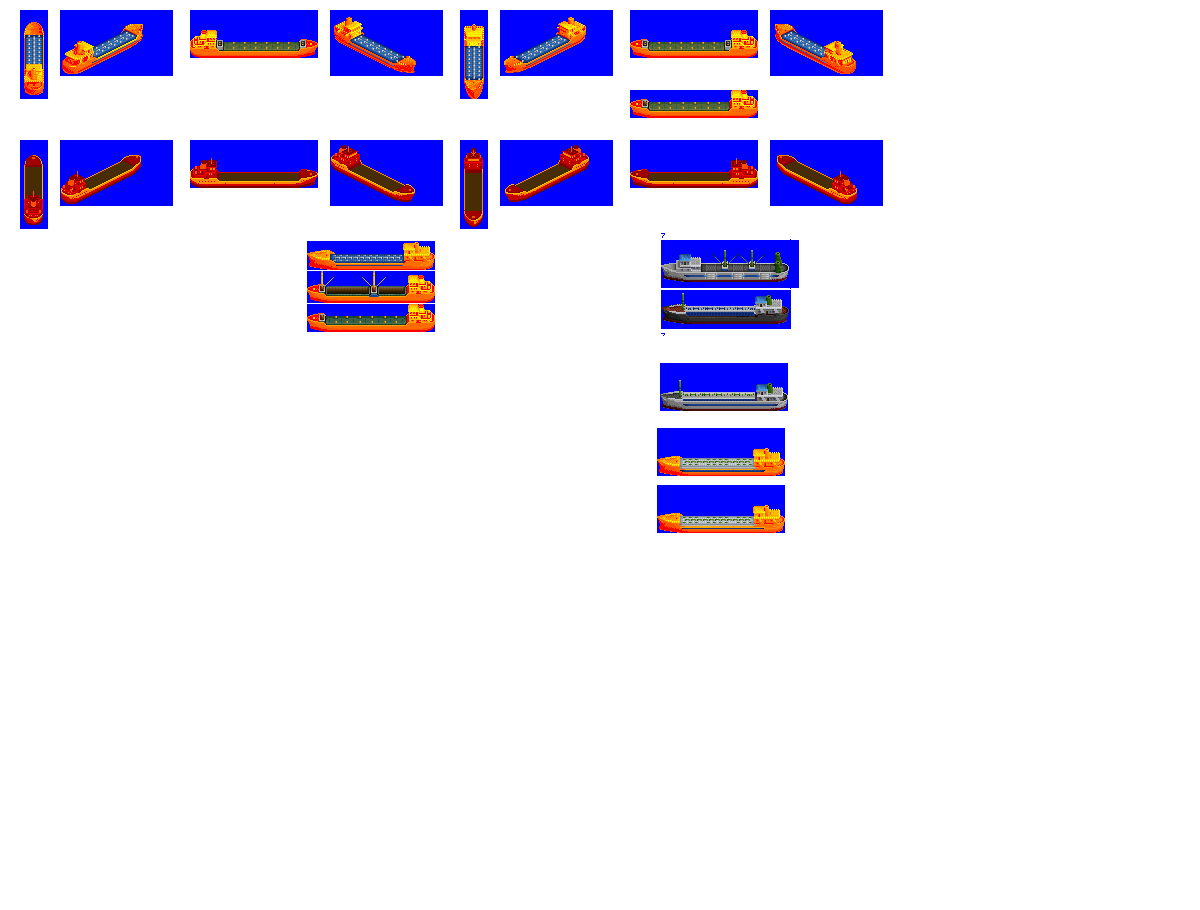
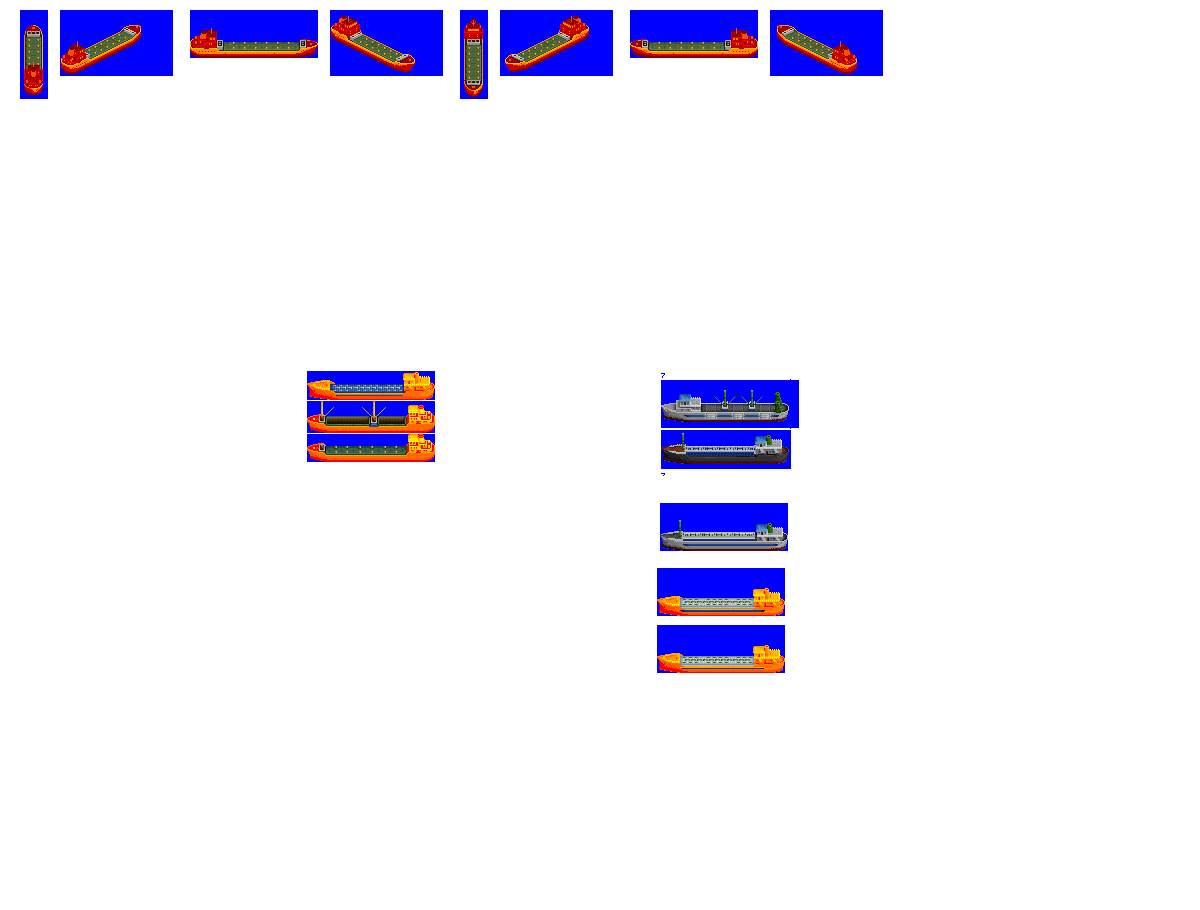
Change: sprites complete for Cortes gen 3F edibles tanker

diff --git a/src/vehicles/edibles_tankers.py b/src/vehicles/edibles_tankers.py
@@ -59,5 +59,5 @@ def main():
         subtype="F",
         hull="ShipHouseRear",
         effect_type="EFFECT_SPRITE_DIESEL",
-        sprites_complete=False,
+        sprites_complete=True,
     )
